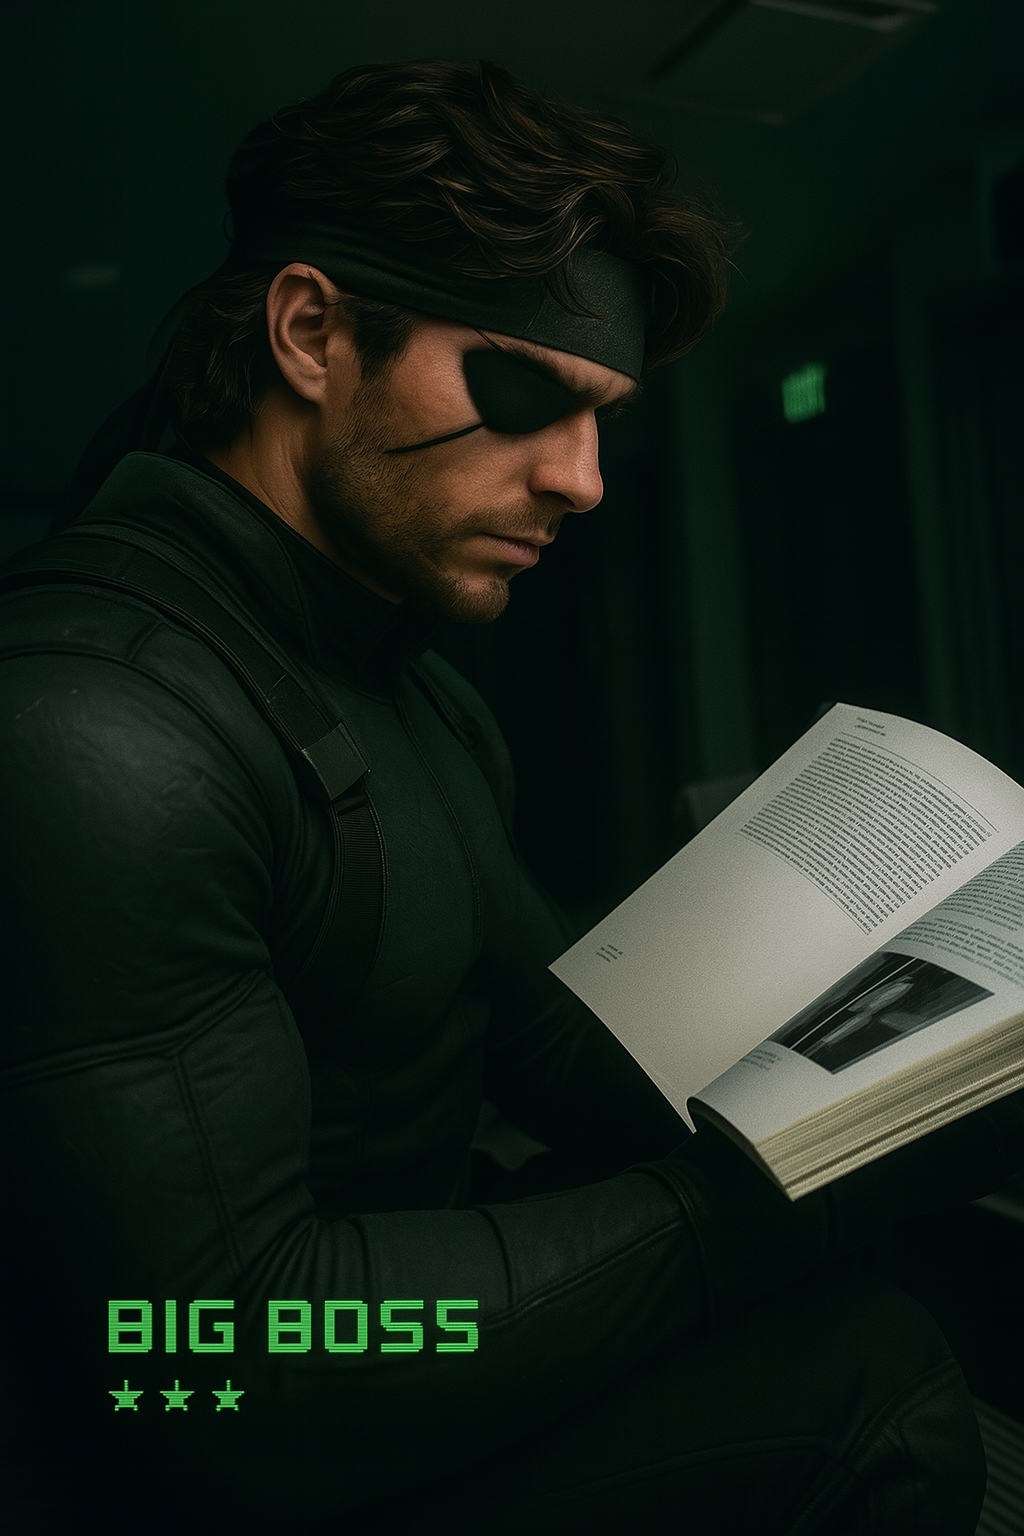
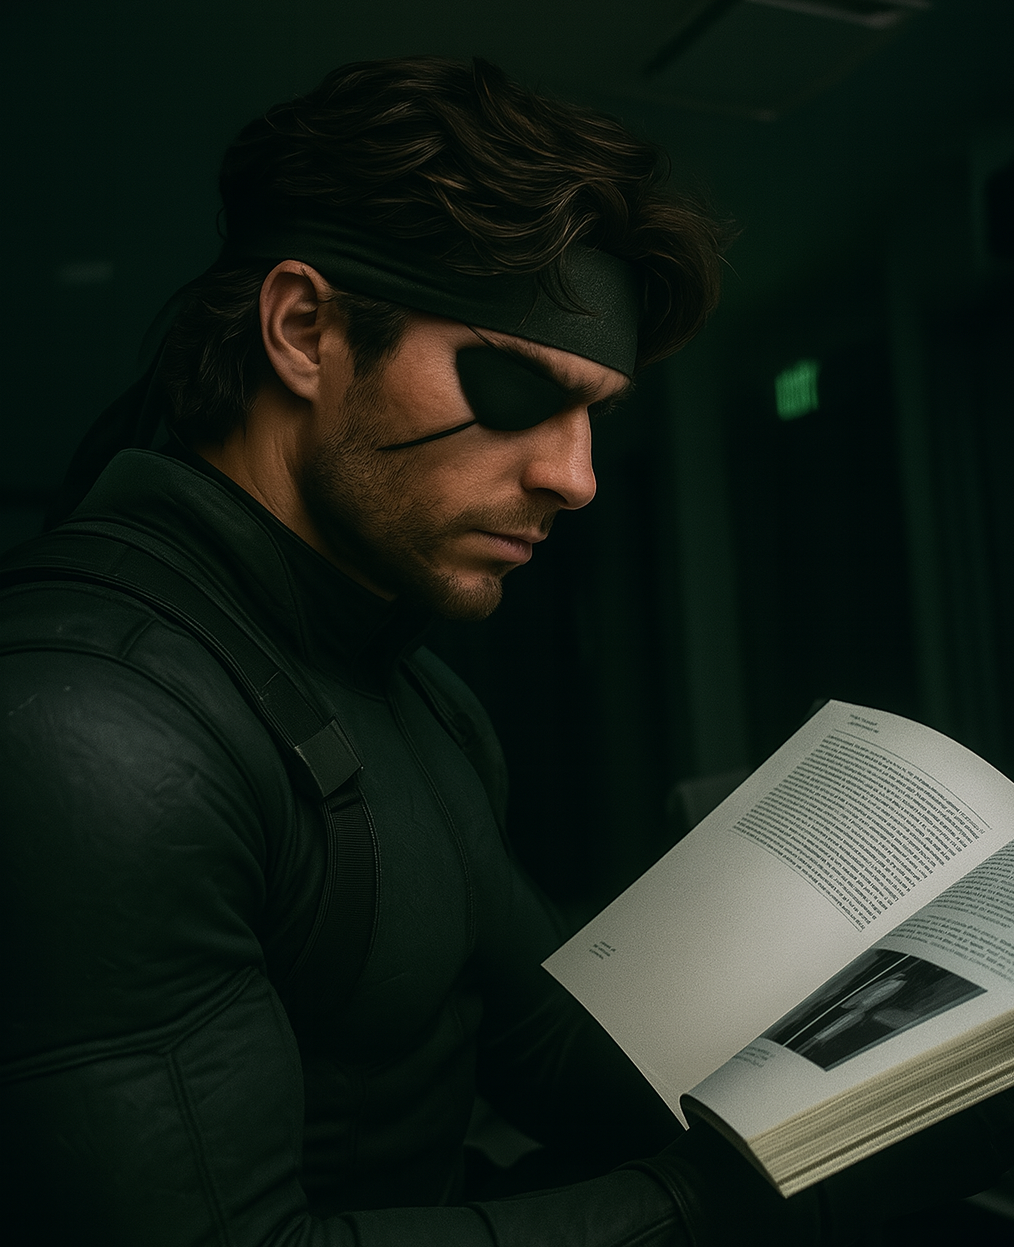
finished

diff --git a/src/components/About.tsx b/src/components/About.tsx
@@ -130,7 +130,7 @@ const About = () => {
               {/* Mission Brief */}
               <div className="relative bg-mgs-dark-gray/80 backdrop-blur border-2 border-mgs-green p-4 sm:p-6 md:p-8 overflow-hidden">
                 <div className="absolute top-0 left-0 w-full h-1 bg-gradient-to-r from-transparent via-mgs-green to-transparent" />
-                <h3 className="text-xl md:text-2xl font-mgs2-menu mb-4 md:mb-6 text-mgs-white uppercase tracking-wider">
+                <h3 className="text-xl md:text-2xl font-tactical mb-4 md:mb-6 text-mgs-white uppercase tracking-wider">
                   Mission <span className="text-mgs-green">Directive</span>
                 </h3>
                 <p className="text-mgs-white/70 font-roboto text-sm md:text-base leading-relaxed">
@@ -144,7 +144,7 @@ const About = () => {
 
               {/* Tactical Approach */}
               <div className="relative bg-mgs-dark-gray/80 backdrop-blur border-2 border-mgs-gray p-4 sm:p-6 md:p-8">
-                <h3 className="text-xl md:text-2xl font-mgs2-menu mb-4 md:mb-6 text-mgs-white uppercase tracking-wider">
+                <h3 className="text-xl md:text-2xl font-tactical mb-4 md:mb-6 text-mgs-white uppercase tracking-wider">
                   Tactical Protocol
                 </h3>
                 <p className="text-mgs-white/70 font-roboto text-sm md:text-base leading-relaxed">
@@ -203,7 +203,7 @@ const About = () => {
                     <span className="text-mgs-green font-bold text-lg">{index + 1}</span>
                   </div>
 
-                  <h4 className="text-sm md:text-base font-mgs2-menu mb-2 text-mgs-white uppercase">
+                  <h4 className="text-lg md:text-base font-tactical mb-2 text-mgs-white uppercase">
                     {value.title}
                   </h4>
                   <p className="text-xs text-mgs-green/60 font-tactical uppercase mb-3">
@@ -237,7 +237,7 @@ const About = () => {
                     </div>
                     <div className="flex-1">
                       <div className="flex flex-col sm:flex-row sm:items-baseline mb-2">
-                        <h4 className="text-xs sm:text-base md:text-xl font-mgs2-menu text-mgs-white uppercase tracking-normal sm:tracking-wider sm:mr-3">
+                        <h4 className="text-base sm:text-xl md:text-3xl font-tactical text-mgs-white uppercase tracking-normal sm:tracking-wider sm:mr-3">
                           {step.title}
                         </h4>
                         <span className="text-xs text-mgs-green/60 font-mgs2-menu uppercase mt-1 sm:mt-0">
@@ -266,65 +266,72 @@ const About = () => {
             <div className="grid grid-cols-1 lg:grid-cols-2 gap-8 md:gap-10 lg:gap-16 xl:gap-20">
               {/* Left Column - Operative Card */}
               <div className="lg:col-span-1">
-              <div className="relative bg-mgs-dark-gray/80 backdrop-blur border-2 border-mgs-gray overflow-hidden group">
-                <div className="absolute top-0 left-0 w-full h-1 bg-gradient-to-r from-transparent via-mgs-green to-transparent" />
+                <div className="relative bg-mgs-dark-gray/80 backdrop-blur border-2 border-mgs-gray overflow-hidden group">
+                  <div className="absolute top-0 left-0 w-full h-1 bg-gradient-to-r from-transparent via-mgs-green to-transparent" />
 
-                <div className="h-[35rem] md:h-[40rem] lg:h-[45rem] xl:h-[50rem] overflow-hidden relative border-2 border-mgs-green p-4 lg:p-6 xl:p-8">
-                  <Image
-                    src="/kieran-bb.png"
-                    alt="Operative Profile"
-                    className="w-full h-full object-contain"
-                    width={800}
-                    height={1000}
-                  />
-                </div>
-
-                <div className="p-4 sm:p-6 md:p-8 relative">
-                  <div className="flex items-start justify-between mb-4">
-                    <div>
-                      <h4 className="text-lg md:text-xl lg:text-2xl xl:text-3xl font-mgs2-menu mb-1 text-mgs-white uppercase tracking-wider">
-                        Kieran O&apos;Leary
-                      </h4>
-                      <p className="text-mgs-green font-mgs2-menu text-xs sm:text-sm lg:text-base xl:text-lg uppercase">
-                        Codename Big Boss
-                      </p>
-                    </div>
-                    <div className="text-right">
-                      <p className="text-xs lg:text-sm xl:text-base text-mgs-white/60 font-tactical uppercase">
-                        Rank
-                      </p>
-                      <p className="text-sm lg:text-base xl:text-lg text-mgs-green font-mgs2-menu">CEO</p>
+                  <div className="h-[35rem] md:h-[40rem] lg:h-[45rem] xl:h-[50rem] overflow-hidden relative border-2 border-mgs-green">
+                    <div className="w-full h-full relative overflow-hidden">
+                      <Image
+                        src="/kieran-bb.png"
+                        alt="Operative Profile"
+                        className="w-full h-full object-cover object-[center_20%] sm:object-contain sm:object-top sm:h-[120%]"
+                        width={800}
+                        height={1000}
+                      />
                     </div>
                   </div>
 
-                  <div className="border-t border-mgs-gray/50 pt-4">
-                    <p className="text-mgs-white/70 text-sm md:text-base font-roboto mb-4">
-                      <span className="text-mgs-green font-tactical uppercase text-xs">
-                        Mission Record
-                      </span>
-                    </p>
-                    <p className="text-mgs-white/60 text-sm lg:text-base xl:text-lg leading-relaxed font-roboto">
-                      Tactical entrepreneur and technology commander. First operative at
-                      ShipBob (now valued at $4B), established RCR Recording Studio,
-                      founded EmpowerEd (education ops). Co-founder of Banya (stealth
-                      bathhouse operations), partner at RW Projects (construction
-                      tactics), instrumental in GoodBuy Gear expansion.
-                    </p>
-                  </div>
+                  <div className="p-4 sm:p-6 md:p-8 relative">
+                    <div className="flex items-start justify-between mb-4">
+                      <div>
+                        <h4 className="text-lg md:text-xl lg:text-2xl xl:text-3xl font-mgs2-menu mb-1 text-mgs-white uppercase tracking-wider">
+                          Kieran O&apos;Leary
+                        </h4>
+                        <p className="text-mgs-green font-tactical text-xs sm:text-sm lg:text-base xl:text-lg uppercase">
+                          Big Boss
+                        </p>
+                      </div>
+                      <div className="text-right">
+                        <p className="text-xs lg:text-sm xl:text-base text-mgs-white/60 font-tactical uppercase">
+                          Rank
+                        </p>
+                        <p className="text-sm lg:text-base xl:text-lg text-mgs-green font-mgs2-menu">
+                          CEO
+                        </p>
+                      </div>
+                    </div>
 
-                  <div className="mt-4 flex items-center justify-between text-xs">
-                    <span className="text-mgs-green/60 font-tactical uppercase">
-                      Security Clearance x Maximum
-                    </span>
-                    <div className="flex items-center">
-                      <div className="w-2 h-2 bg-mgs-green rounded-full animate-pulse mr-2" />
+                    <div className="border-t border-mgs-gray/50 pt-4">
+                      <p className="text-mgs-white/70 text-sm md:text-base font-roboto mb-4">
+                        <span className="text-mgs-green font-tactical uppercase text-xs">
+                          Mission Record
+                        </span>
+                      </p>
+                      <p className="text-mgs-white/60 text-sm lg:text-base xl:text-lg leading-relaxed font-roboto">
+                        Tactical entrepreneur and technology commander. First operative at
+                        ShipBob (now valued at $4B). Established RCR Recording Studio.
+                        Founded EmpowerEd to reform education logistics. Co-founder of
+                        Banya (stealth bathhouse operations) and partner at RW Projects
+                        (construction tactics). Creator of VibeBreath (nervous system
+                        training protocol) and KeepTouch (AI-powered relationship
+                        tracker). Director at Workshop GR, designing and executing
+                        high-end wellness infrastructure across NYC and beyond.
+                      </p>
+                    </div>
+
+                    <div className="mt-4 flex items-center justify-between text-xs">
                       <span className="text-mgs-green/60 font-tactical uppercase">
-                        Active
+                        Security Clearance x Maximum
                       </span>
+                      <div className="flex items-center">
+                        <div className="w-2 h-2 bg-mgs-green rounded-full animate-pulse mr-2" />
+                        <span className="text-mgs-green/60 font-tactical uppercase">
+                          Active
+                        </span>
+                      </div>
                     </div>
                   </div>
                 </div>
-              </div>
               </div>
 
               {/* Right Column - Allied Units */}

diff --git a/src/components/SoundProvider.tsx b/src/components/SoundProvider.tsx
@@ -1,6 +1,6 @@
 "use client";
 
-import React, { createContext, useContext, useEffect } from "react";
+import React, { createContext, useContext, useEffect, useState } from "react";
 import { useSoundEffects, SoundType } from "@/hooks/useSoundEffects";
 
 interface SoundContextType {
@@ -27,18 +27,38 @@ interface SoundProviderProps {
 export const SoundProvider: React.FC<SoundProviderProps> = ({ children }) => {
   const soundEffects = useSoundEffects();
   const { playSound, isLoaded } = soundEffects;
+  const [hasInteracted, setHasInteracted] = useState(false);
 
   useEffect(() => {
-    // Play the main theme when the page loads and sounds are ready
-    if (isLoaded) {
-      // Small delay to ensure everything is ready
-      const timer = setTimeout(() => {
-        playSound("main");
-      }, 500);
-
-      return () => clearTimeout(timer);
+    // Try to play immediately if sounds are loaded
+    if (isLoaded && !hasInteracted) {
+      playSound("main");
+      setHasInteracted(true);
     }
-  }, [isLoaded, playSound]);
+
+    // Also try to play on first user interaction (for autoplay policy)
+    const handleFirstInteraction = () => {
+      if (isLoaded && !hasInteracted) {
+        playSound("main");
+        setHasInteracted(true);
+      }
+      // Remove listeners after first interaction
+      document.removeEventListener("click", handleFirstInteraction);
+      document.removeEventListener("touchstart", handleFirstInteraction);
+      document.removeEventListener("keydown", handleFirstInteraction);
+    };
+
+    // Add listeners for various interaction types (including mobile touch)
+    document.addEventListener("click", handleFirstInteraction);
+    document.addEventListener("touchstart", handleFirstInteraction);
+    document.addEventListener("keydown", handleFirstInteraction);
+
+    return () => {
+      document.removeEventListener("click", handleFirstInteraction);
+      document.removeEventListener("touchstart", handleFirstInteraction);
+      document.removeEventListener("keydown", handleFirstInteraction);
+    };
+  }, [isLoaded, playSound, hasInteracted]);
 
   return (
     <SoundContext.Provider value={soundEffects}>

diff --git a/src/components/Solutions.tsx b/src/components/Solutions.tsx
@@ -36,7 +36,7 @@ const Solutions = () => {
   const solutions: Solution[] = [
     {
       title: "Web Development",
-      codename: "OPERATION: WEB SNAKE",
+      codename: "OPERATION: SOLID WEB",
       description: "Tactical web deployment with stealth optimization.",
       features: [
         "Responsive Infiltration",
@@ -73,7 +73,11 @@ const Solutions = () => {
   ];
 
   return (
-    <div ref={sectionRef} className="relative bg-mgs-black py-16 md:py-32 overflow-x-hidden" id="solutions">
+    <div
+      ref={sectionRef}
+      className="relative bg-mgs-black py-16 md:py-32 overflow-x-hidden"
+      id="solutions"
+    >
       {/* MGS Grid Background */}
       <div className="absolute inset-0 mgs-grid-bg opacity-20" />
       <div className="absolute inset-0 mgs-noise opacity-10" />
@@ -146,7 +150,7 @@ const Solutions = () => {
                         />
                       </div>
                       <div>
-                        <h3 className="text-base md:text-lg lg:text-xl xl:text-2xl font-mgs2-menu text-mgs-white uppercase tracking-normal">
+                        <h3 className="text-base md:text-lg lg:text-xl xl:text-2xl font-tactical text-mgs-white uppercase tracking-normal">
                           {solution.title}
                         </h3>
                         <p className="text-xs lg:text-sm xl:text-base text-mgs-green font-mgs2-menu uppercase mt-1">

diff --git a/src/app/page.tsx b/src/app/page.tsx
@@ -4,6 +4,7 @@ import HeroSection from "@/components/HeroSection";
 import Solutions from "@/components/Solutions";
 import About from "@/components/About";
 import Contact from "@/components/Contact";
+import Footer from "@/components/Footer";
 
 /* AI gradient styles - Removed as no longer used in this file */
 // const aiGradientStyle: CSSProperties = {
@@ -35,21 +36,7 @@ export default function Home() {
           <Contact />
         </main>
 
-        <footer className="relative py-8 text-mgs-white/60 text-sm border-t-2 border-mgs-green bg-mgs-black/90 backdrop-blur-sm">
-          <div className="w-full px-8 lg:px-12 xl:px-16 flex flex-col items-center justify-center">
-            <div className="mb-4 flex items-center justify-center">
-              <span className="text-sm sm:text-base font-mgs2-menu text-mgs-green uppercase tracking-wide sm:tracking-widest">
-                Holy Grail Studio
-              </span>
-            </div>
-            <p className="text-center text-mgs-white/60 font-tactical">
-              Holy Grail Studio * All rights reserved
-            </p>
-            <p className="text-center mt-2 text-mgs-green/60 font-mgs2 text-xs uppercase tracking-wider">
-              [ TACTICAL SOFTWARE DEVELOPMENT ]
-            </p>
-          </div>
-        </footer>
+        <Footer />
       </div>
     </div>
   );

diff --git a/src/components/Footer.tsx b/src/components/Footer.tsx
@@ -1,0 +1,32 @@
+"use client";
+
+import Link from "next/link";
+import { useSoundContext } from "@/components/SoundProvider";
+
+const Footer = () => {
+  const { playSound } = useSoundContext();
+
+  return (
+    <footer className="relative py-8 text-mgs-white/60 text-sm border-t-2 border-mgs-green bg-mgs-black/90 backdrop-blur-sm">
+      <div className="w-full px-8 lg:px-12 xl:px-16 flex flex-col items-center justify-center">
+        <div className="mb-4 flex items-center justify-center">
+          <Link 
+            href="/"
+            onClick={() => playSound("return")}
+            className="text-xs sm:text-sm md:text-base font-mgs2-menu text-mgs-green uppercase tracking-normal sm:tracking-wide md:tracking-widest hover:text-mgs-green/80 transition-colors duration-200 cursor-pointer text-center block"
+          >
+            Holy Grail Studio
+          </Link>
+        </div>
+        <p className="text-center text-mgs-white/60 font-tactical">
+          All rights reserved
+        </p>
+        <p className="text-center mt-2 text-mgs-green/60 font-mgs2 text-xs uppercase tracking-wider">
+          [ TACTICAL SOFTWARE DEVELOPMENT ]
+        </p>
+      </div>
+    </footer>
+  );
+};
+
+export default Footer;

diff --git a/src/components/Navbar.js b/src/components/Navbar.js
@@ -138,6 +138,7 @@ const Navbar = () => {
             href="#contact"
             className="text-sm px-6 py-2 transition-all duration-300 hover:shadow-glow-green"
             style={mgsButtonStyle}
+            onClick={() => playSound("engage")}
           >
             <span className="relative z-10">Get Started</span>
             <div className="absolute inset-0 bg-mgs-green-dark transform scale-x-0 origin-left transition-transform duration-300 hover:scale-x-100" />
@@ -209,7 +210,10 @@ const Navbar = () => {
               href="#contact"
               className="inline-block text-[10px] py-2.5 px-4 text-center w-auto mx-auto transition-all duration-300"
               style={mgsButtonStyle}
-              onClick={() => setMobileMenuOpen(false)}
+              onClick={() => {
+                playSound("engage");
+                setMobileMenuOpen(false);
+              }}
             >
               Get Started
             </Link>

diff --git a/src/components/Contact.js b/src/components/Contact.js
@@ -49,7 +49,7 @@ const Contact = () => {
 
   const handleSubmit = async (e) => {
     e.preventDefault();
-    
+
     // Play sound when submitting
     playSound("engage");
 
@@ -319,7 +319,9 @@ const Contact = () => {
                       type="submit"
                       className="btn btn-primary px-8 py-3 relative group overflow-hidden"
                     >
-                      <span className="relative z-10">TRANSMIT MESSAGE</span>
+                      <span className="relative font-tactical lg:text-3xl z-10">
+                        TRANSMIT MESSAGE
+                      </span>
                       <div className="absolute inset-0 bg-gradient-to-r from-mgs-green to-mgs-green-dark transform -translate-x-full group-hover:translate-x-0 transition-transform duration-300" />
                     </button>
                   </div>

diff --git a/src/hooks/useSoundEffects.ts b/src/hooks/useSoundEffects.ts
@@ -14,7 +14,7 @@ interface SoundConfig {
 }
 
 const soundConfig: SoundConfig = {
-  main: { path: "/sounds/main.mp3", volume: 0.3 },
+  main: { path: "/sounds/main.mp3", volume: 0.1 }, // Much lower volume
   "codec-freq": { path: "/sounds/codec-freq.mp3", volume: 0.5 },
   dropdown: { path: "/sounds/dropdown.mp3", volume: 0.4 },
   engage: { path: "/sounds/engage.mp3", volume: 0.5 },
@@ -40,6 +40,9 @@ export const useSoundEffects = () => {
         const audio = new Audio(config.path);
         audio.volume = config.volume;
         audio.preload = "auto";
+        
+        // Enable for mobile/iOS
+        audio.crossOrigin = "anonymous";
         
         // Create a promise that resolves when the audio can play
         const loadPromise = new Promise((resolve) => {

diff --git a/src/components/HeroSection.tsx b/src/components/HeroSection.tsx
@@ -79,6 +79,7 @@ const HeroSection = () => {
               <Link
                 href="#solutions"
                 className="btn btn-primary w-full sm:w-auto text-sm lg:text-lg xl:text-xl 2xl:text-2xl px-6 lg:px-10 xl:px-14 py-3 lg:py-5 xl:py-6 text-center relative group overflow-hidden"
+                onClick={() => playSound("engage")}
               >
                 <span className="relative z-10">ENGAGE MISSION</span>
                 <div className="absolute inset-0 bg-gradient-to-r from-mgs-green to-mgs-green-dark transform -translate-x-full group-hover:translate-x-0 transition-transform duration-300" />
